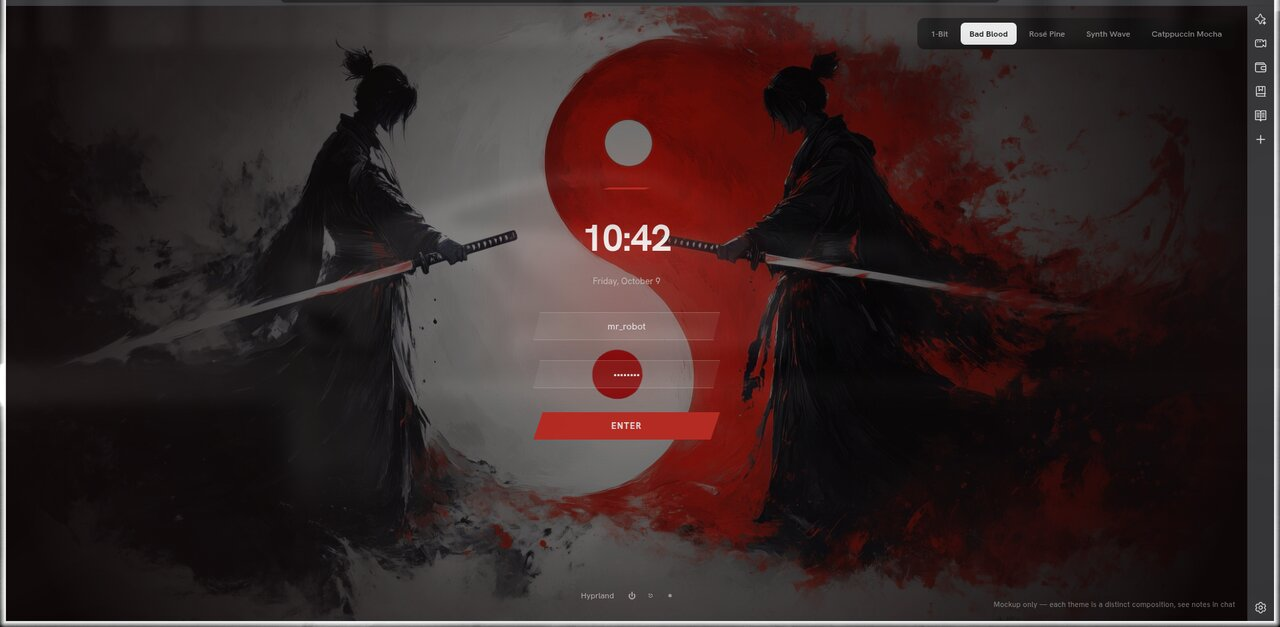
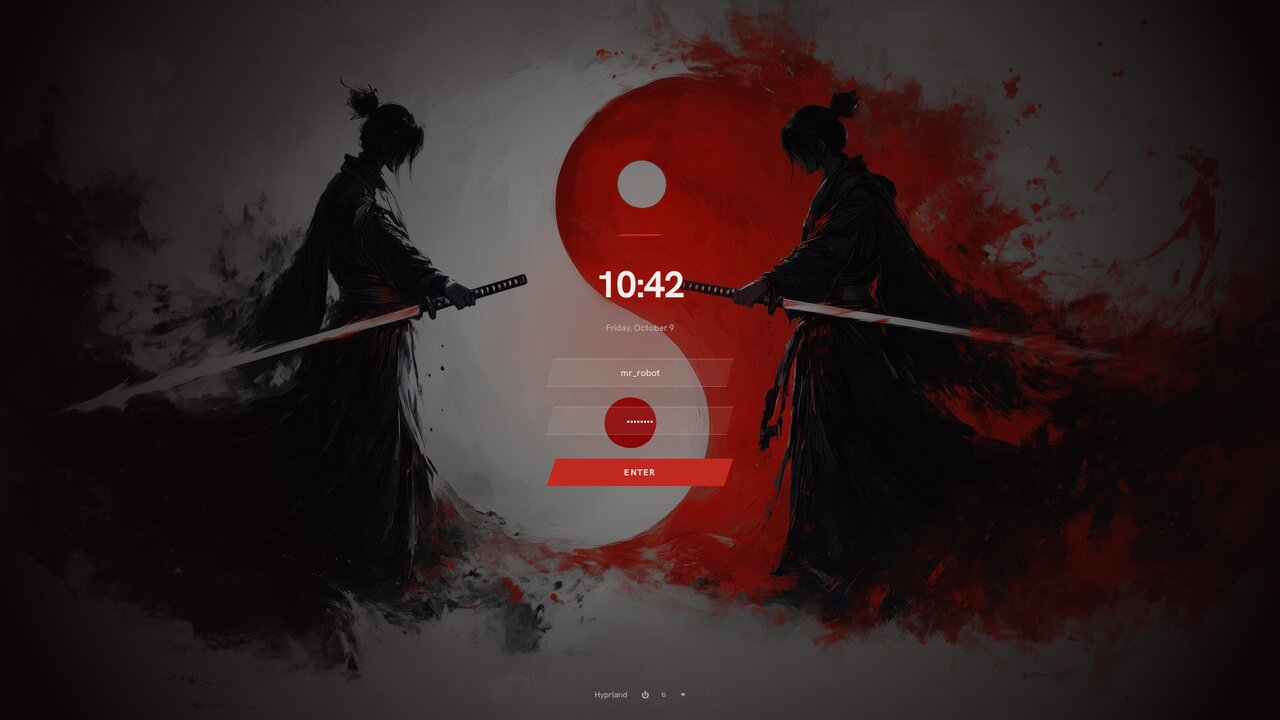
docs(sddm): login screen previews without browser chrome, note real-greeter gaps
The five preview images were screenshots of a browser window and still
showed the sidebar, the page's own scene switcher and its "mockup only"
label. Re-rendered each scene alone at 1920x1080 with Playwright's
chrome-headless-shell (no window, no desktop involvement) through a new
?clean mode on preview.html that hides that page chrome and the 1-Bit
scene's decorative cursor, which the real theme no longer draws.

README now says how they are produced, and records two layouts that are
visibly worse in the real QML greeter than in their mockups (Catppuccin
sheet colors, Bad Blood glow), found by rendering all five offscreen
with each theme's real wallpaper and colors. Not fixed here.

diff --git a/assets/sddm-preview/preview.html b/assets/sddm-preview/preview.html
@@ -4,6 +4,7 @@
 <meta charset="utf-8">
 <meta name="viewport" content="width=device-width, initial-scale=1">
 <title>SDDM wallbash preview</title>
+<script>if (/[?&]clean\b/.test(location.search)) document.documentElement.classList.add('clean');</script>
 <link rel="preconnect" href="https://fonts.googleapis.com">
 <link rel="preconnect" href="https://fonts.gstatic.com" crossorigin>
 <link href="https://fonts.googleapis.com/css2?family=JetBrains+Mono:wght@400;500;700&family=Hanken+Grotesk:wght@400;500;600;700&family=Playfair+Display:ital,wght@0,500;1,500&display=swap" rel="stylesheet">
@@ -54,6 +55,10 @@
     right: 0;
   }
   button { font-family: inherit; cursor: pointer; }
+
+  /* clean-mode: ?clean hides the page's own chrome (scene switcher, "mockup only" label)
+     and the 1-Bit scene's decorative cursor, so a screenshot contains only the login screen. */
+  .clean .tabs, .clean .label, .clean .cursor-blink { display: none !important; }
 
   /* ============ shared chrome (tab switcher) ============ */
   .tabs {

diff --git a/README.md b/README.md
@@ -87,8 +87,10 @@ Pure hashing was tried first and sent Bad Blood to the bottom-sheet layout, so t
 | **1-Bit** <br> ![1-Bit login](assets/sddm-preview/1-Bit.jpg) | **Bad Blood** <br> ![Bad Blood login](assets/sddm-preview/Bad-Blood.jpg) | **Rosé Pine** <br> ![Rosé Pine login](assets/sddm-preview/Rose-Pine.jpg) |
 | **Synth Wave** <br> ![Synth Wave login](assets/sddm-preview/Synth-Wave.jpg) | **Catppuccin Mocha** <br> ![Catppuccin Mocha login](assets/sddm-preview/Catppuccin-Mocha.jpg) | |
 
-These images are HTML/CSS mockups of the layouts, not screenshots of the QML greeter.
-Source: `assets/sddm-preview/preview.html`, open directly in a browser.
+These images are renders of the HTML/CSS mockups of the layouts, not screenshots of the QML greeter.
+They are the page alone, with no browser around it: `assets/sddm-preview/preview.html?clean#<scene>` hides the page's own scene switcher and label.
+Open it directly in a browser, or regenerate an image with Playwright's `chrome-headless-shell --screenshot=out.png --window-size=1920,1080 --hide-scrollbars --virtual-time-budget=5000 "file://$PWD/assets/sddm-preview/preview.html?clean#bad-blood"`.
+Scene names: `1-bit`, `bad-blood`, `rose-pine`, `synth-wave`, `catppuccin-mocha`.
 
 **How it stays in sync.**
 `wallbash/always/sddm-wallbash.dcol` runs on every wallpaper change and calls `sddm-wallbash.sh`, which writes `/etc/sddm-wallbash/current.conf` (colors, a copy of the wallpaper, the layout number).
@@ -124,6 +126,13 @@ The password field had `focus=true` but `activeFocus=false`, because the focus c
 And 1-Bit drew a blinking block beside the "PASS" label that was not connected to the field at all.
 Both are fixed: the field now takes focus when a layout appears and draws its own caret, and all five layouts measure `activeFocus=true`.
 Not yet checked: an actual boot into this greeter on this machine, and the power buttons, which are hidden in `--test-mode` because SDDM reports no power capabilities there.
+
+**Known gaps between the mockups and the real greeter.**
+Only the 1-Bit layout has been looked at in a real `--test-mode` window.
+Rendering all five QML layouts offscreen with each theme's own wallpaper and wallbash colors showed two that are clearly worse than their mockups:
+the Catppuccin bottom sheet comes out pink with low-contrast blue text and inverted button colors, and Bad Blood's red glow becomes flat gray discs that wash out the wallpaper.
+Rosé Pine's clock uses the system serif, and no layout can use blur or shader effects.
+These are bugs in the QML translation, not the design, and are not fixed yet.
 
 **Fonts.**
 The QML asks only for generic `serif` and `monospace`, because the greeter runs as `sddm` and sees system fonts only.
